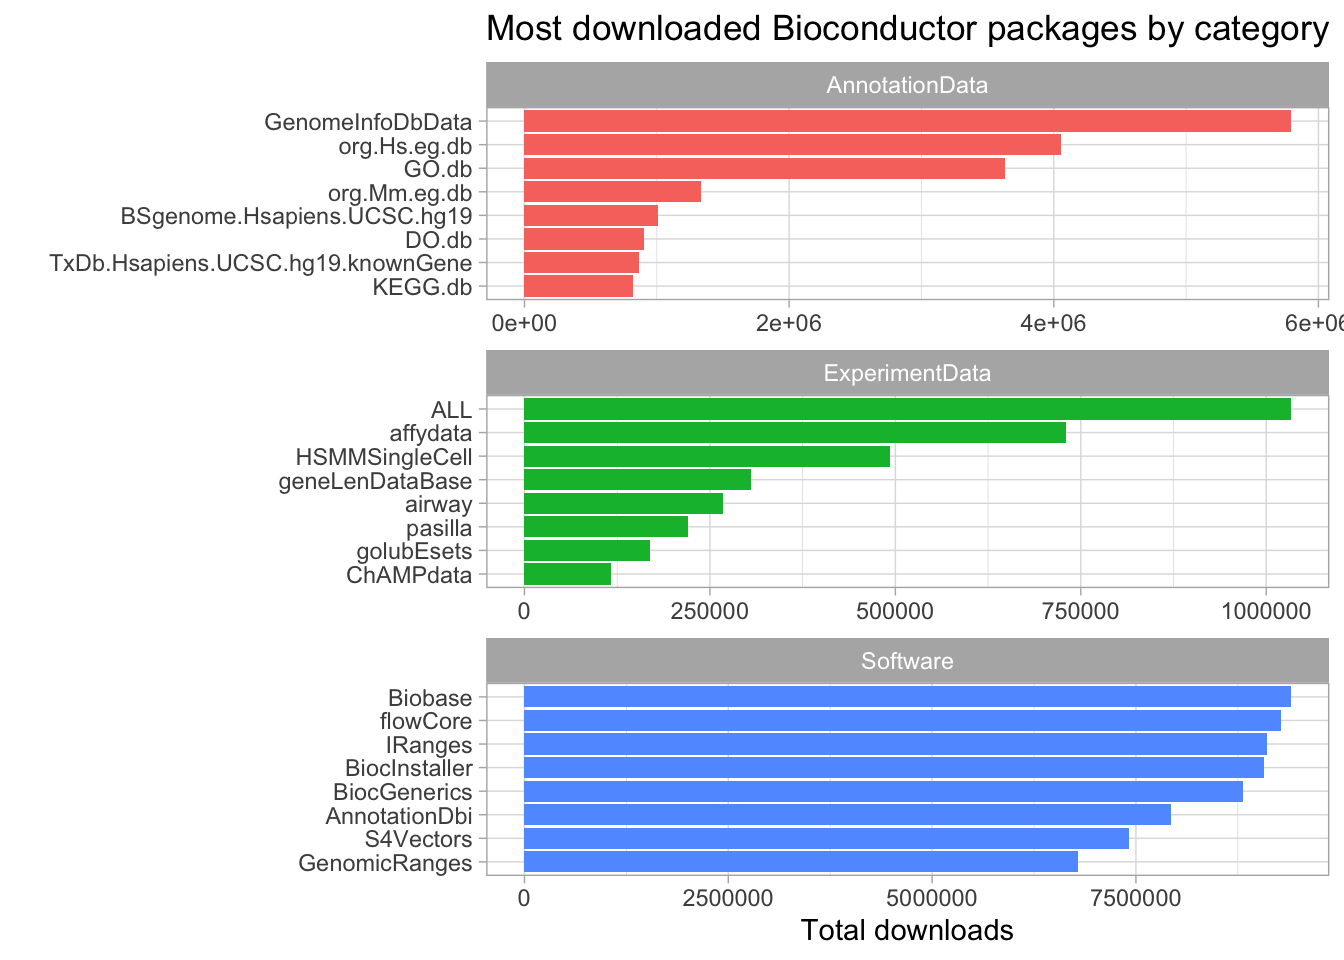
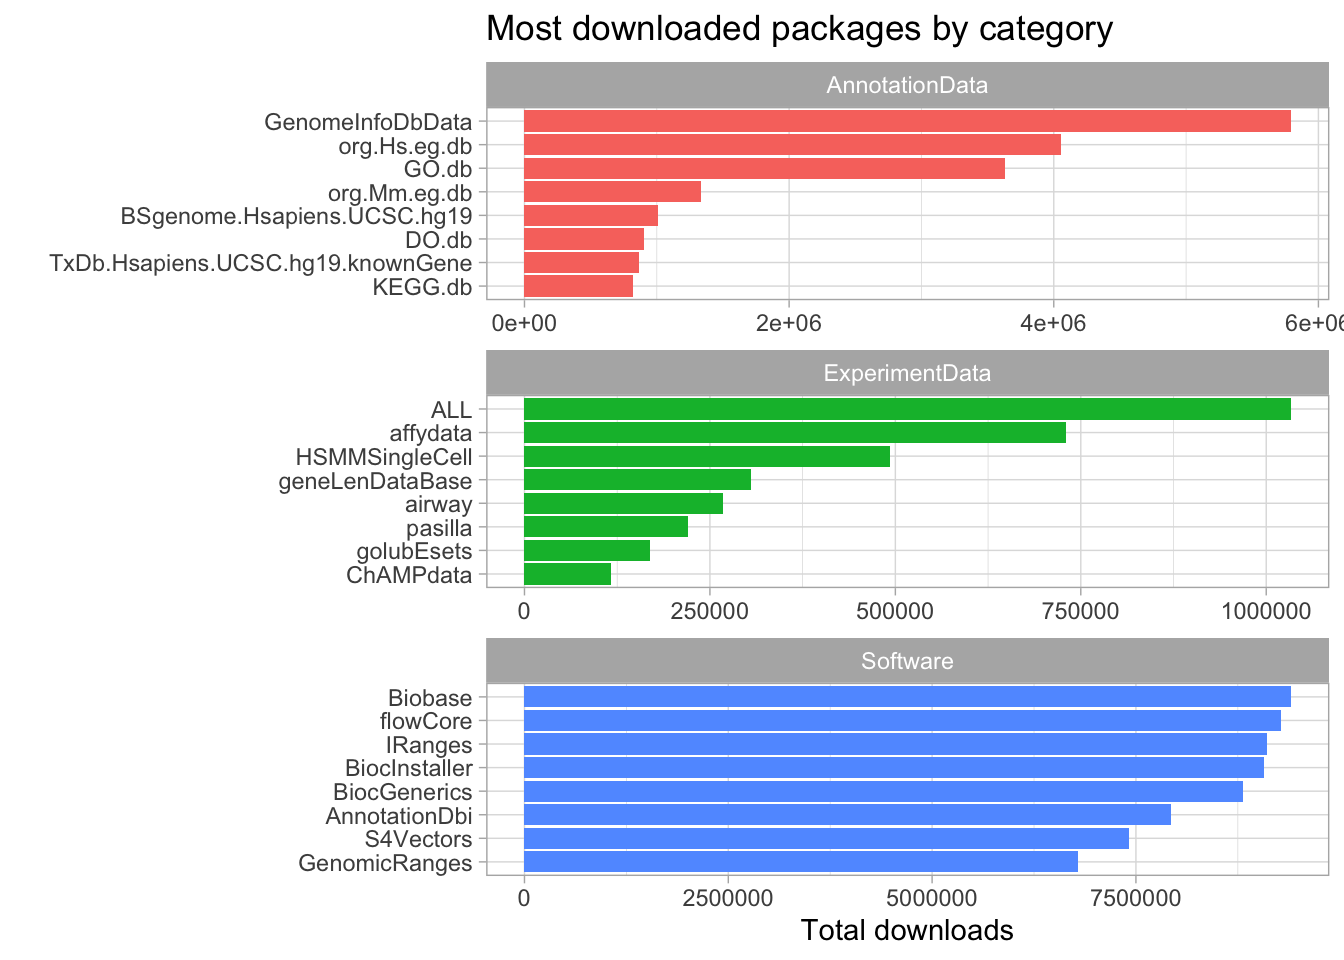
yeast update

Changed region(s): [[0.5625, 0.0, 1.0, 0.0625]]

diff --git a/content/post/2021-10-11-yeast-genome/index.html b/content/post/2021-10-11-yeast-genome/index.html
@@ -97,10 +97,10 @@ pkgs %&gt;%
   facet_wrap(~repo, scales = &#39;free&#39;, ncol = 1) +
   scale_y_reordered() +
   theme(legend.position = &quot;none&quot;) +
-  labs(title = &quot;Most downloaded Bioconductor packages by category&quot;,
+  labs(title = &quot;Most downloaded packages by category&quot;,
        x = &quot;Total downloads&quot;,
        y = &quot;&quot;) +
-  theme(plot.title = element_text(hjust = -2))</code></pre>
+  theme(plot.title = element_text(hjust = 0))</code></pre>
 <p><img src="{{< blogdown/postref >}}index_files/figure-html/unnamed-chunk-3-1.png" width="672" /></p>
 <p>Let’s finish our exploration of the Bioconductor repository by looking at how the package count has grown over time in each category.</p>
 <pre class="r"><code>pkgs %&gt;%  firstInBioc() %&gt;% 
